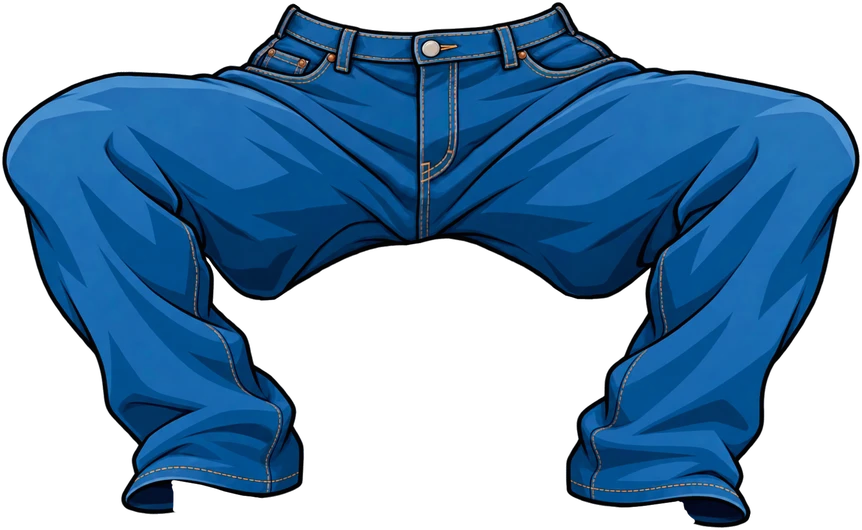
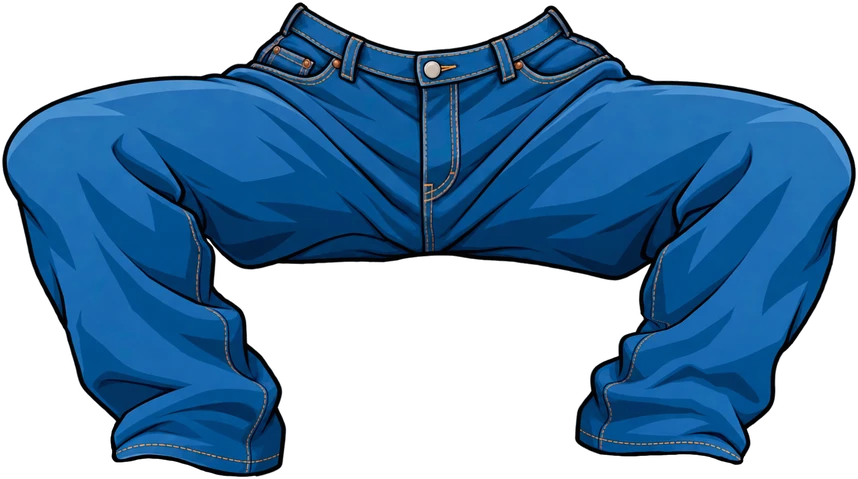
Hero: the new jeans (the artist's redraw), the wear art version bumped so phones fetch it
Claude-Session: https://claude.ai/code/session_01E3jaUxUo8xTQNwyakAWMq3

diff --git a/src/client/preload.ts b/src/client/preload.ts
@@ -8,7 +8,7 @@
 import { ASSET_FILES } from "./asset-manifest.ts";
 
 /** cache-busting versions of redrawn art (bump when the picture changes) */
-export const ART_VER = { heroPart: 5, hair: 4, wear: 2, items: 3 } as const;
+export const ART_VER = { heroPart: 5, hair: 4, wear: 3, items: 3 } as const;
 
 /** the URL a screen really requests for a file from the manifest */
 export function usedUrl(path: string): string {

diff --git a/src/client/art/rig-look.ts b/src/client/art/rig-look.ts
@@ -43,10 +43,10 @@ export const WEAR_FIT = {
   },
   "jeans": {
     "slot": "PANTS",
-    "x": 74.5,
-    "y": 678.0,
-    "w": 862,
-    "h": 530
+    "x": 73.0,
+    "y": 667.5,
+    "w": 858,
+    "h": 479
   },
   "shorts-remote": {
     "slot": "PANTS",
